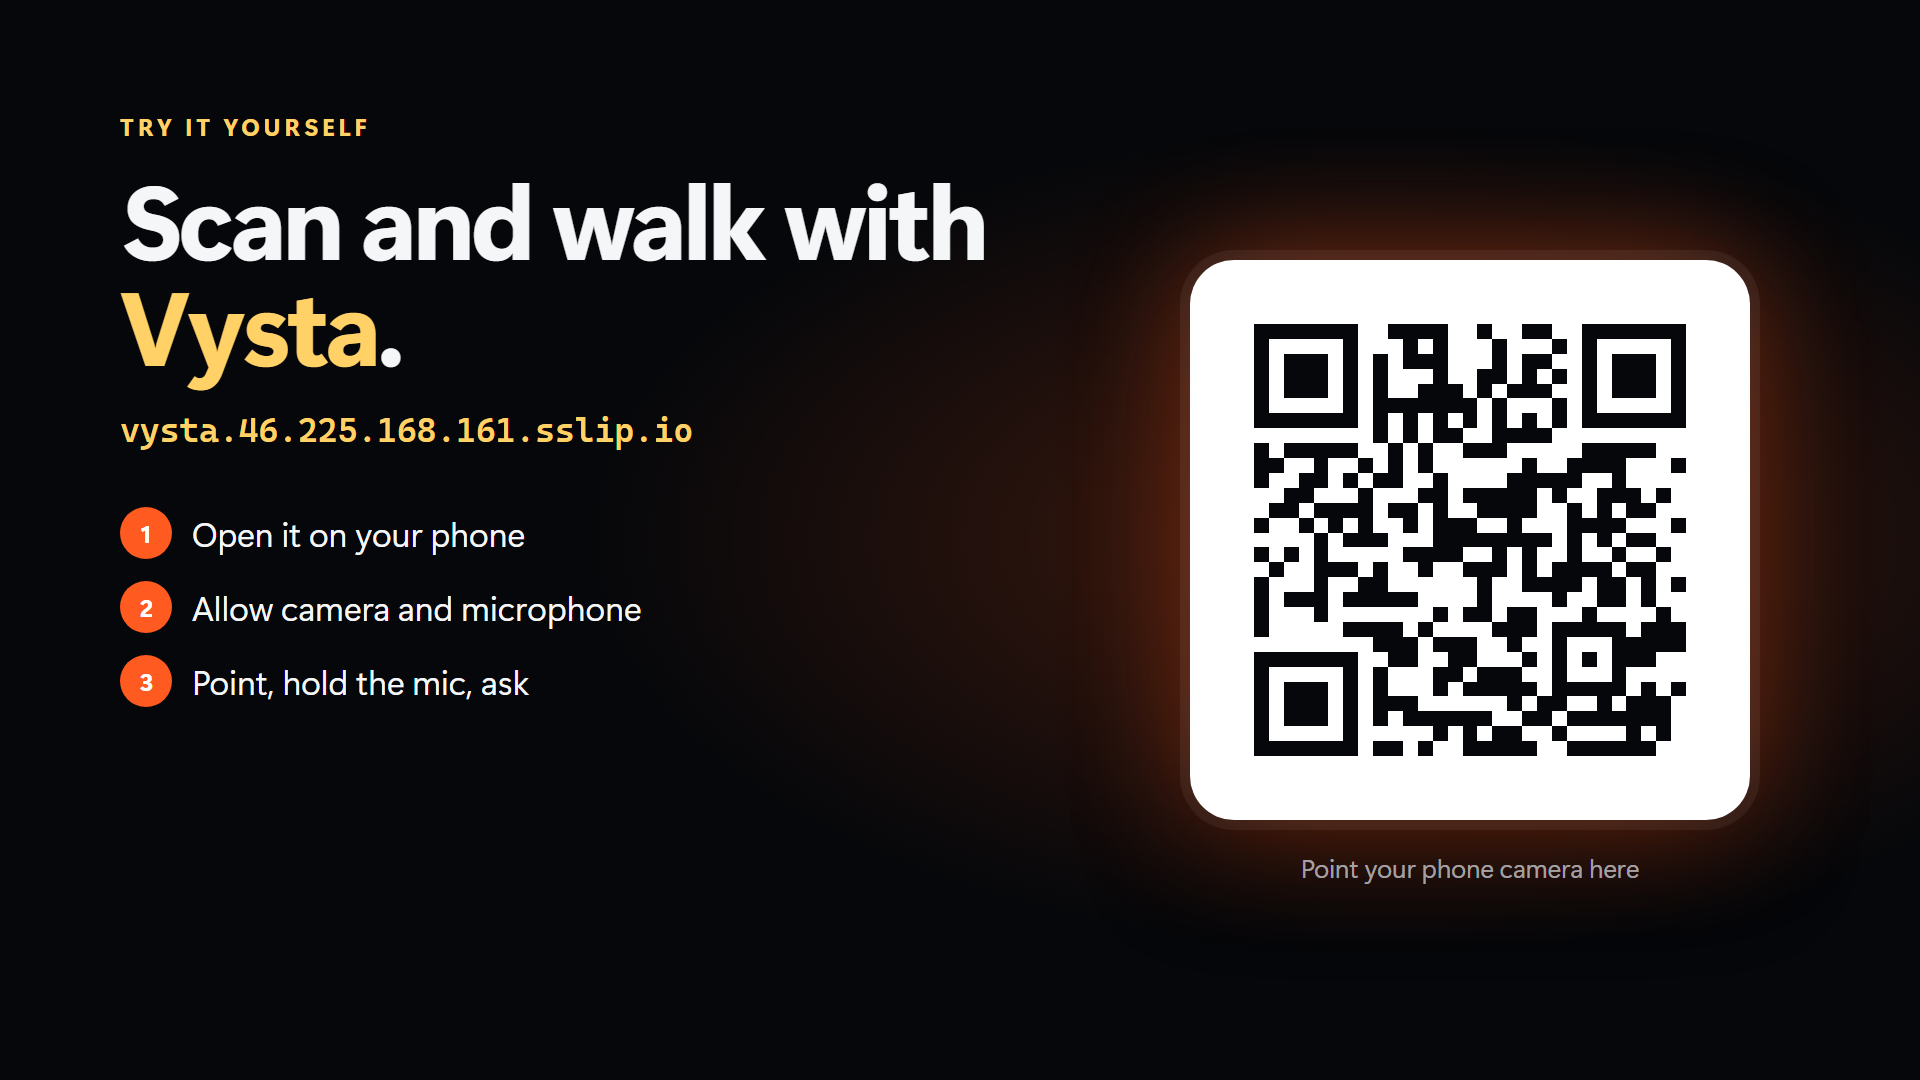
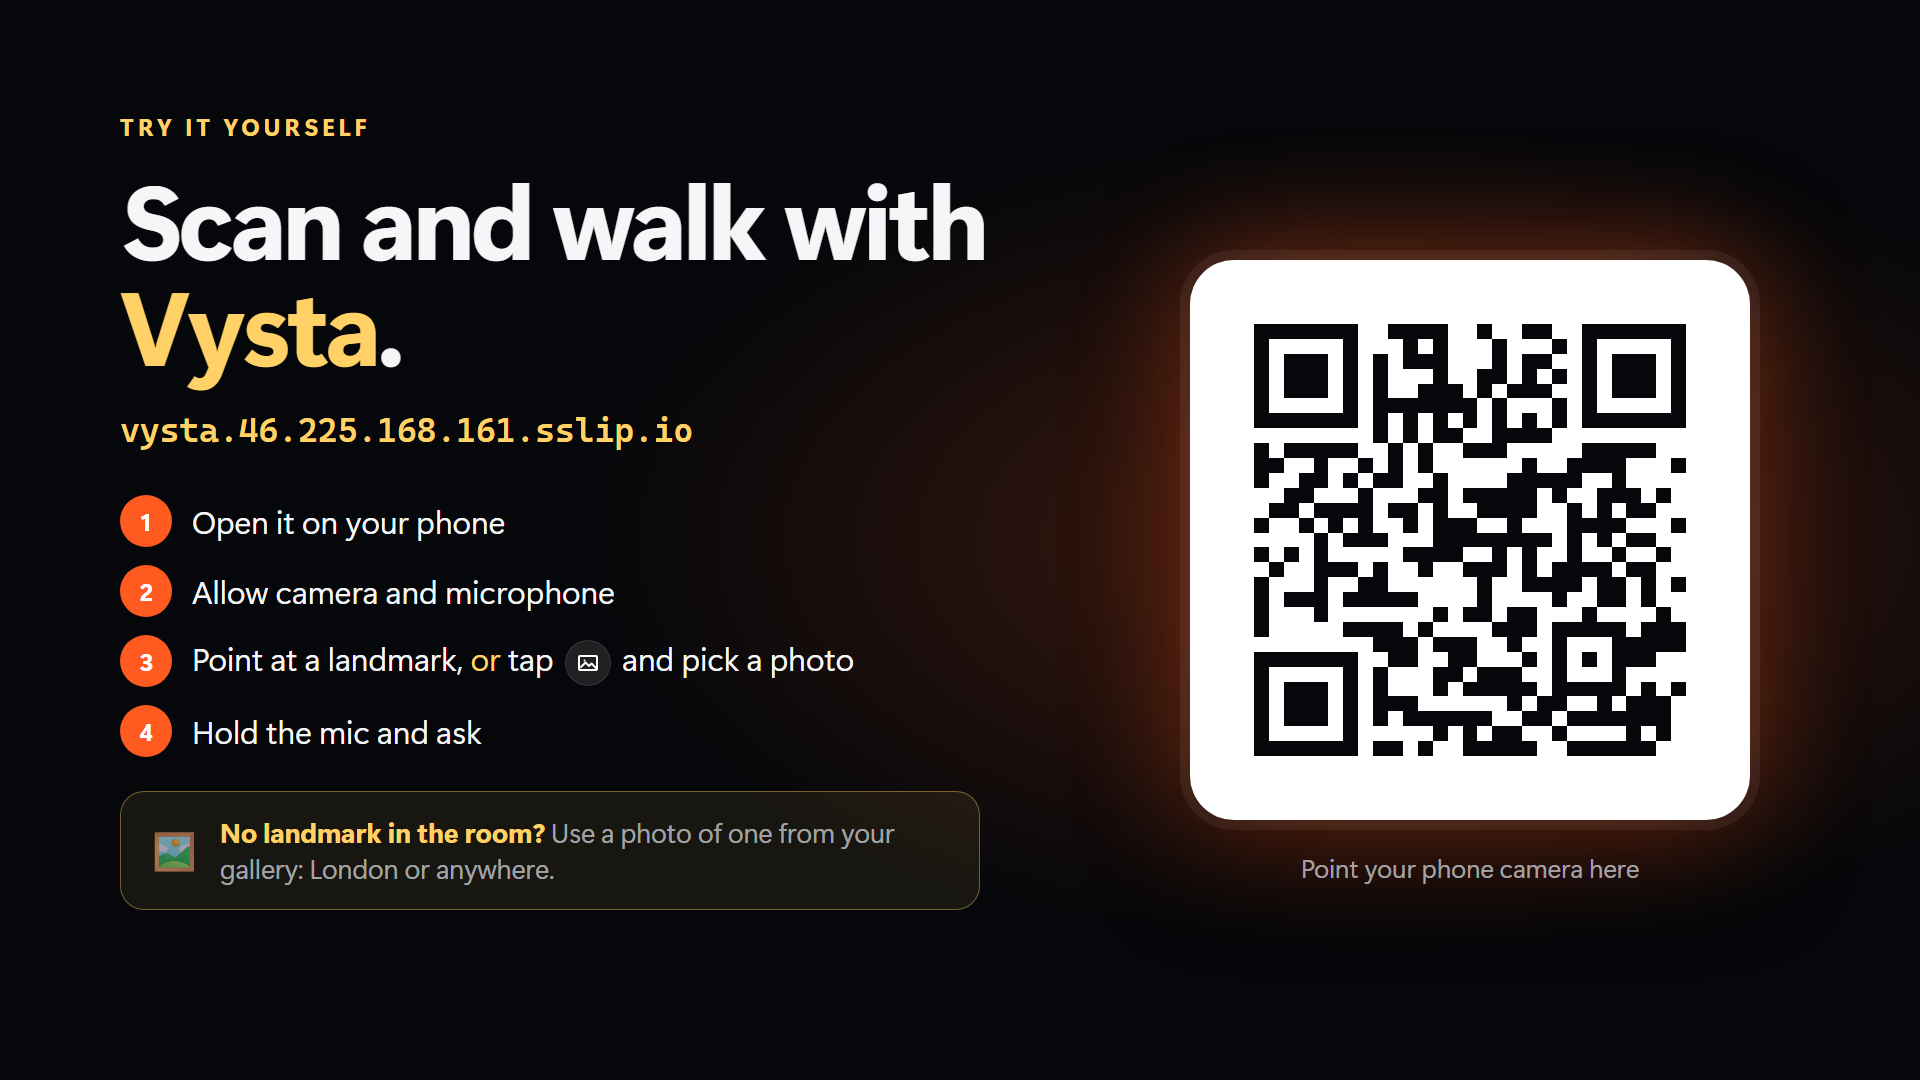
docs(deck): QR slide explains the gallery-photo option
The audience can't point at a building in the room, so step 3 now reads
'point at a landmark, or tap the gallery button and pick a photo', with a
tip box: no landmark in the room? use a photo of one, from London or
anywhere. Speaker notes updated to match.

Changed region(s): [[0.0625, 0.4583, 0.4375, 0.7028], [0.0625, 0.7639, 0.4688, 0.825]]

diff --git a/docs/deck/index.html b/docs/deck/index.html
@@ -214,8 +214,16 @@ h2 em, h1 em { font-style: normal; color: var(--gold); }
 .s13 .left { position: absolute; left: 120px; top: 110px; width: 900px; }
 .s13 h1 { font-size: 104px; }
 .s13 .url { margin-top: 34px; font: 600 34px/1.2 ui-monospace, "Cascadia Code", Consolas, monospace; color: var(--gold); position: relative; }
-.s13 .how { margin-top: 56px; display: flex; flex-direction: column; gap: 22px; position: relative; }
-.s13 .how div { display: flex; align-items: center; gap: 20px; font-size: 34px; }
+.s13 .how { margin-top: 44px; display: flex; flex-direction: column; gap: 18px; position: relative; }
+.s13 .how div { display: flex; align-items: center; gap: 20px; font-size: 32px; }
+.s13 .how em { font-style: normal; color: var(--gold); }
+.s13 .gal { display: inline-grid; place-items: center; width: 46px; height: 46px; margin: 0 4px; vertical-align: middle; border-radius: 50%;
+  background: rgba(255,255,255,.1); border: 1px solid var(--hair); }
+.s13 .gal svg { width: 24px; height: 24px; fill: none; stroke: #fff; stroke-width: 2; stroke-linecap: round; stroke-linejoin: round; }
+.s13 .tip { margin-top: 34px; display: flex; align-items: center; gap: 18px; padding: 22px 26px; border-radius: 24px; position: relative;
+  background: rgba(255,209,102,.08); border: 1px solid rgba(255,209,102,.4); font-size: 27px; line-height: 1.35; color: var(--ink-2); max-width: 860px; }
+.s13 .tip strong { color: var(--gold); font-weight: 650; }
+.s13 .tip__ico { font-size: 40px; }
 .s13 .how b { width: 52px; height: 52px; flex: none; border-radius: 50%; display: grid; place-items: center; font-size: 24px; background: var(--brand); color: #fff; }
 .qr { position: absolute; right: 170px; top: 50%; width: 560px; height: 560px; margin-top: -280px; padding: 64px; border-radius: 44px; background: #fff;
   box-shadow: 0 0 0 10px rgba(255,255,255,.06), 0 0 120px rgba(255,90,31,.45), 0 40px 100px rgba(0,0,0,.6); }
@@ -432,8 +440,10 @@ h2 em, h1 em { font-style: normal; color: var(--gold); }
     <div class="how">
       <div class="b" style="--i:3"><b>1</b>Open it on your phone</div>
       <div class="b" style="--i:4"><b>2</b>Allow camera and microphone</div>
-      <div class="b" style="--i:5"><b>3</b>Point, hold the mic, ask</div>
+      <div class="b" style="--i:5"><b>3</b><span>Point at a landmark, <em>or</em> tap <span class="gal"><svg viewBox="0 0 24 24" aria-hidden="true"><path d="M4 5h16a1 1 0 0 1 1 1v12a1 1 0 0 1-1 1H4a1 1 0 0 1-1-1V6a1 1 0 0 1 1-1Zm1 11 4.5-4.5 3.5 3.5 2.5-2.5L20 17M8.5 9.5h.01"/></svg></span> and pick a photo</span></div>
+      <div class="b" style="--i:6"><b>4</b>Hold the mic and ask</div>
     </div>
+    <div class="tip b" style="--i:8"><span class="tip__ico">🖼</span><span><strong>No landmark in the room?</strong> Use a photo of one from your gallery: London or anywhere.</span></div>
   </div>
   <div class="qr b" style="--i:2"><svg class="qr-svg" role="img" aria-label="QR code to vysta.46.225.168.161.sslip.io" xmlns="http://www.w3.org/2000/svg" viewBox="0 0 29 29" shape-rendering="crispEdges"><path fill="#ffffff" d="M0 0h29v29H0z"/><path stroke="#05070a" d="M0 0.5h7m2 0h4m2 0h1m2 0h2m2 0h7M0 1.5h1m5 0h1m3 0h1m1 0h1m3 0h1m3 0h1m1 0h1m5 0h1M0 2.5h1m1 0h3m1 0h1m1 0h1m1 0h3m3 0h1m1 0h2m2 0h1m1 0h3m1 0h1M0 3.5h1m1 0h3m1 0h1m1 0h1m3 0h1m2 0h2m1 0h1m1 0h1m1 0h1m1 0h3m1 0h1M0 4.5h1m1 0h3m1 0h1m1 0h1m2 0h3m1 0h1m1 0h3m2 0h1m1 0h3m1 0h1M0 5.5h1m5 0h1m1 0h7m1 0h1m3 0h1m1 0h1m5 0h1M0 6.5h7m1 0h1m1 0h1m1 0h1m1 0h1m1 0h1m1 0h1m1 0h1m1 0h7M8 7.5h1m1 0h1m1 0h2m2 0h4M0 8.5h1m1 0h5m2 0h1m1 0h1m2 0h3m5 0h5M0 9.5h2m2 0h1m2 0h1m1 0h1m1 0h1m6 0h1m2 0h4m3 0h1M0 10.5h1m2 0h2m1 0h1m1 0h2m2 0h1m4 0h5m2 0h1M2 11.5h2m3 0h1m3 0h2m1 0h5m1 0h1m2 0h3m1 0h1M1 12.5h2m1 0h4m1 0h2m1 0h1m2 0h4m2 0h1m1 0h1m1 0h2M0 13.5h1m2 0h1m1 0h1m1 0h1m2 0h1m1 0h3m2 0h1m3 0h4m3 0h1M4 14.5h1m1 0h3m3 0h8m1 0h1m1 0h1m1 0h2M0 15.5h1m1 0h1m1 0h1m5 0h4m2 0h1m1 0h1m2 0h1m2 0h1m2 0h1M1 16.5h1m2 0h3m1 0h1m2 0h1m2 0h3m1 0h1m1 0h4m1 0h2M0 17.5h1m3 0h1m2 0h2m6 0h1m2 0h4m1 0h2m1 0h1m1 0h1M0 18.5h1m1 0h3m1 0h5m4 0h1m4 0h1m2 0h2m1 0h1M0 19.5h1m3 0h1m7 0h1m1 0h2m1 0h2m3 0h1m4 0h1M0 20.5h1m5 0h4m1 0h1m4 0h3m1 0h5m1 0h3M8 21.5h3m1 0h3m2 0h1m2 0h1m3 0h5M0 22.5h7m2 0h2m2 0h2m3 0h1m1 0h1m1 0h1m1 0h3M0 23.5h1m5 0h1m1 0h1m3 0h2m1 0h3m2 0h1m3 0h1M0 24.5h1m1 0h3m1 0h1m1 0h1m3 0h1m1 0h5m1 0h5m1 0h1m1 0h1M0 25.5h1m1 0h3m1 0h1m1 0h3m6 0h1m1 0h2m2 0h1m1 0h3M0 26.5h1m1 0h3m1 0h1m1 0h1m1 0h6m2 0h2m1 0h7M0 27.5h1m5 0h1m5 0h1m1 0h1m1 0h2m2 0h1m4 0h1m1 0h1M0 28.5h7m1 0h2m1 0h1m2 0h5m2 0h6"/></svg>
 </div>

diff --git a/docs/deck.md b/docs/deck.md
@@ -162,7 +162,10 @@ shareable answer cards and more cities. Point, ask, listen, see. Thank you."
 
 ## 13 — Try it yourself (leave this up during Q&A)
 On screen: *Scan and walk with Vysta.* QR code → https://vysta.46.225.168.161.sslip.io/ ·
-open it on your phone · allow camera and microphone · point, hold the mic, ask.
+open it on your phone · allow camera and microphone · point at a landmark **or tap the
+gallery button and pick a photo** · hold the mic and ask. Tip box: no landmark in the room?
+Use a photo of one from your gallery, from London or anywhere.
 
-**Say:** "It's live right now. Scan the code, allow the camera and mic, and point it at
-anything. We'll take your questions."
+**Say:** "It's live right now. Scan the code and allow the camera and mic. There's no landmark in
+this room, so tap the gallery button and pick a photo of one: London or anywhere. Then hold
+the mic and ask. We'll take your questions."

diff --git a/docs/deck/talk/4-speaker-3-how-next.md b/docs/deck/talk/4-speaker-3-how-next.md
@@ -50,5 +50,6 @@ Next comes a bigger curated landmark database, shareable answer cards, and more 
 
 ## Slide 13 · Try it yourself (after "Thank you")
 Advance to the QR slide and **leave it up for the whole Q&A**.
-"It's live right now: scan the code, allow the camera and mic, and point it at anything.
+"It's live right now: scan the code and allow the camera and mic.
+There's no landmark in this room, so tap the **gallery button** and pick a photo of one: London or anywhere. Then hold the mic and ask.
 Happy to take questions."
